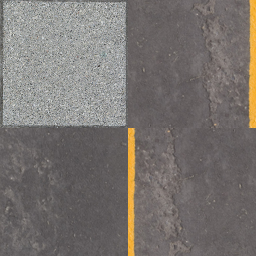
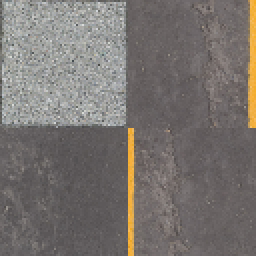
Camera positioning

diff --git a/src/scenes/basic_scene.cpp b/src/scenes/basic_scene.cpp
@@ -31,7 +31,8 @@ void Basic_Scene::Start(GLFWwindow* window)
     debugWindow.lightSpecular[0] = light.specularIntensity.x;
     debugWindow.lightSpecular[1] = light.specularIntensity.y;
     debugWindow.lightSpecular[2] = light.specularIntensity.z;
-    camera = Camera(width, height, vec3(0.0f, 1.5f, 6.0f));
+    camera = Camera(width, height, vec3(0.0f, 3.0f, 5.0f));
+    camera.pitch = -25.0f;
 
 	glEnable(GL_DEPTH_TEST);
 
@@ -81,17 +82,17 @@ void Basic_Scene::Render()
     view = camera.ChangeViewMatrix(view);
 
     model = mat4(1.0f);
-    model = glm::rotate(model, glm::radians(-50.0f), glm::vec3(0.0f, 1.0f, 0.0f));
+    model = glm::rotate(model, glm::radians(-90.0f), glm::vec3(0.0f, 1.0f, 0.0f));
     car.Render(prog, light, view, model, projection);
     road.Render(prog, light, view, model, projection);
 
     model = mat4(1.0f);
-    model = glm::rotate(model, glm::radians(-50.0f), glm::vec3(0.0f, 1.0f, 0.0f));
+    model = glm::rotate(model, glm::radians(-90.0f), glm::vec3(0.0f, 1.0f, 0.0f));
     model = glm::translate(model, vec3(0.0f, 0.0f, 15.9f));
     road.Render(prog, light, view, model, projection);
 
     model = mat4(1.0f);
-    model = glm::rotate(model, glm::radians(-50.0f), glm::vec3(0.0f, 1.0f, 0.0f));
+    model = glm::rotate(model, glm::radians(-90.0f), glm::vec3(0.0f, 1.0f, 0.0f));
     model = glm::translate(model, vec3(0.0f, 0.0f, -15.9f));
     road.Render(prog, light, view, model, projection);
 

diff --git a/src/camera.cpp b/src/camera.cpp
@@ -17,8 +17,8 @@ Camera::Camera(unsigned int SCR_WIDTH, unsigned int SCR_HEIGHT, vec3 startPos)
 	motion = { false,false,false,false };
 
 	cameraPos = startPos;
-	cameraFront = glm::vec3(0.0f, 0.0f, -1.0f);
-	cameraUp = glm::vec3(0.0f, 1.0f, 0.0f);
+	cameraFront = vec3(0.0f, 0.0f, -1.0f);
+	cameraUp = vec3(0.0f, 1.0f, 0.0f);
 }
 
 void Camera::KeyCallback(GLFWwindow* window)

diff --git a/src/camera.h b/src/camera.h
@@ -28,7 +28,7 @@ public:
 	Motion motion;
 
 	Camera();
-	Camera(unsigned int SCR_WIDTH, unsigned int SCR_HEIGHT, vec3 startPos = vec3(0.0f, 0.0f, 0.0f));
+	Camera(unsigned int SCR_WIDTH, unsigned int SCR_HEIGHT, vec3 startPos = vec3(0.0f));
 	void KeyCallback(GLFWwindow* window);
 	void MouseCallback(GLFWwindow* window);
 	void Movement(float deltaTime);
